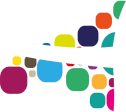
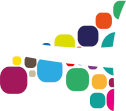
fix: white rounded backdrop for diocesan logomark on dark mode
The cross design is composed of colored tiles separated by white space —
the cross silhouette is defined by the background, not by the tiles. On
dark mode the silhouette disappeared and only floating dots remained.

Wrap the logomark in a white rounded-pill backdrop with a soft shadow.
Same look in light/dark mode (intentional brand-badge pattern). Slight
hover scale + shadow lift for affordance.

Also re-extracted the PNG via flood-fill from the four corners (instead
of converting all near-white to alpha) to preserve any internal white
mosaic tiles in the source.

diff --git a/assets/style.css b/assets/style.css
@@ -124,19 +124,25 @@ header {
   transform: translateY(-50%);
   display: inline-flex;
   align-items: center;
+  justify-content: center;
   line-height: 0;
   text-decoration: none;
-  transition: opacity 0.15s ease;
+  background: #fff;
+  padding: 6px 8px;
+  border-radius: 8px;
+  box-shadow: 0 1px 3px rgba(0,0,0,0.08);
+  transition: transform 0.15s ease, box-shadow 0.15s ease;
 }
 
 .header-home img {
-  height: 36px;
+  height: 32px;
   width: auto;
   display: block;
 }
 
 .header-home:hover {
-  opacity: 0.75;
+  transform: translateY(-50%) scale(1.04);
+  box-shadow: 0 2px 6px rgba(0,0,0,0.12);
 }
 
 .site-title {
@@ -793,6 +799,10 @@ footer .footer-brand:hover {
     position: static;
     transform: none;
     align-self: flex-start;
+  }
+
+  .header-home:hover {
+    transform: scale(1.04);
   }
 
   .day-header h1 {
